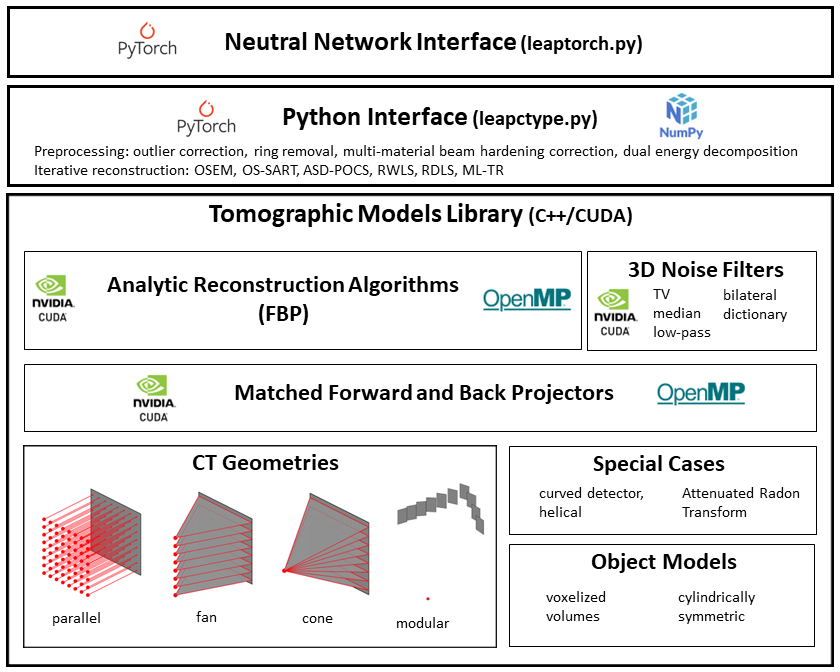
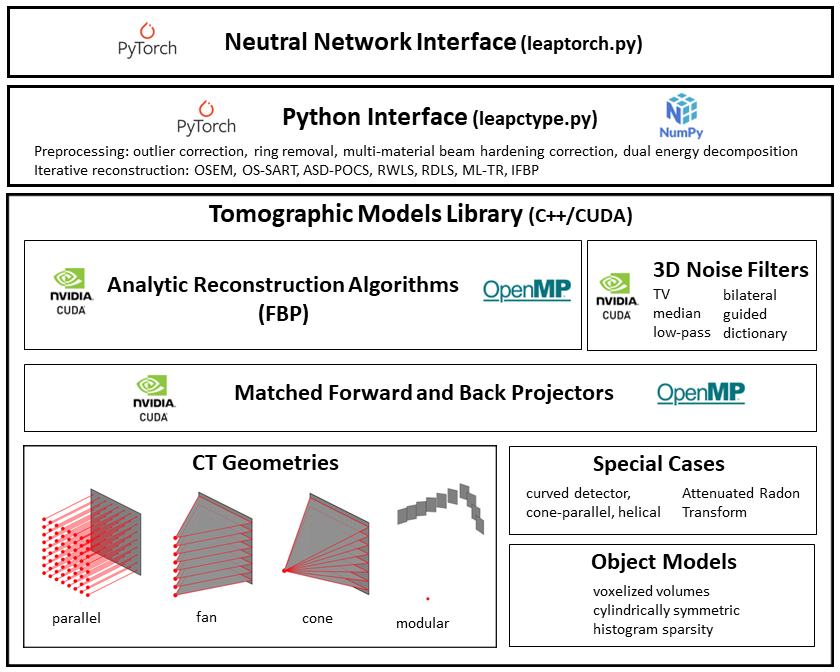
update docs and version number

diff --git a/demo_leapctype/d29_filter_sequence.py b/demo_leapctype/d29_filter_sequence.py
@@ -6,6 +6,11 @@ leapct = tomographicModels()
 This script demonstrates some applications of the so-called "filter sequence" in LEAP.  The filter sequence
 is an extensible feature for which to add multiple regularization filters or "priors" to LEAP iterative reconstruction algorithms.
 
+The types of filters used in this demo script are just to demonstrate the features in LEAP and are not necessarily recommended
+for any application.  In addition, there are many parameter included in these filters and these parameters must be tuned
+to your specific application.  The default values given here might actually result in very poor performance.  Don't judge
+the quality of a specific reconstruction algorithm until you have tuned its parameters for best performance.
+
 This feature has many applications and we will slowly add these to this demon script over time.
 '''
 
@@ -43,11 +48,13 @@ if whichMethod == 1:
     f = leapct.FBP(g)
     
     # Initialize the filter sequence and give it a strength of 2e2.  Larger strengths will enforce a stronger regularization.
+    # You will need to tune this regularization strength to your specific application
     filters = filterSequence(2e2)
     
     # Add a Total Variation (TV) term.  Typical TV uses an L1 norm, but LEAP allows
     # one to use any Lp norm.  Note that if p < 1, then it will be non-convex.  This is really effective in certain
     # situations, but if you are not careful you can get trapped in a non desirable local minimum
+    # The delta parameter must be tuned to your specific application
     filters.append(TV(leapct, delta=0.01/100.0, p=1.0))
     
     leapct.RWLS(g,f,200,filters,preconditioner='SQS')

diff --git a/demo_leapctype/d01_standard_geometries.py b/demo_leapctype/d01_standard_geometries.py
@@ -71,8 +71,8 @@ leapct.print_parameters()
 # Allocate space for the projections and the volume
 # You don't have to use these functions; they are provided just for convenience
 # All you need is for the data to be C contiguous float32 arrays with the right dimensions
-g = leapct.allocateProjections() # shape is numAngles, numRows, numCols
-f = leapct.allocateVolume() # shape is numZ, numY, numX
+g = leapct.allocate_projections() # shape is numAngles, numRows, numCols
+f = leapct.allocate_volume() # shape is numZ, numY, numX
 
 # Specify simplified FORBILD head phantom
 # One could easily do this in Python, but Python is soooooo slow for these types of operations,
@@ -108,8 +108,8 @@ startTime = time.time()
 leapct.FBP(g,f)
 #leapct.inconsistencyReconstruction(g,f)
 #leapct.print_cost = True
-filters = filterSequence(1.0e0)
-filters.append(TV(leapct, delta=0.02/20.0))
+filters = filterSequence(1.0e0) # filter strength argument must be turned to your specific application
+filters.append(TV(leapct, delta=0.02/20.0)) # the delta argument must be turned to your specific application
 #leapct.ASDPOCS(g,f,10,10,1,filters)
 #leapct.SART(g,f,10,10)
 #leapct.OSEM(g,f,10,10)

diff --git a/src/leapctype.py b/src/leapctype.py
@@ -3581,6 +3581,9 @@ class tomographicModels:
         elif isinstance(filters, (int, float)):
             print('Error: invalid inputs!  Note that algorithm syntax has changed, please see documentation.')
             return None
+        elif filters.count() == 0:
+            print('Warning: filterSequence given, but has no terms!')
+            filters.beta = 0.0
         
         if self.verify_inputs(g,f) == False:
             return None
@@ -3974,6 +3977,9 @@ class tomographicModels:
         elif isinstance(filters, (int, float)):
             print('Error: invalid inputs!  Note that algorithm syntax has changed, please see documentation.')
             return None
+        elif filters.count() == 0:
+            print('Warning: filterSequence given, but has no terms!')
+            filters.beta = 0.0
         
         numSubsets = max(1,numSubsets)
         filters.beta = max(0.0, filters.beta/float(numSubsets))

diff --git a/demo_leapctype/d02_standard_geometries_torch.py b/demo_leapctype/d02_standard_geometries_torch.py
@@ -42,6 +42,7 @@ numRows = 1
 #leapct.set_parallelbeam(numAngles, numRows, numCols, pixelSize, pixelSize, 0.5*(numRows-1), 0.5*(numCols-1), leapct.setAngleArray(numAngles, 360.0))
 #leapct.set_fanbeam(numAngles, numRows, numCols, pixelSize, pixelSize, 0.5*(numRows-1), 0.5*(numCols-1), leapct.setAngleArray(numAngles, 360.0), 1100, 1400)
 leapct.set_conebeam(numAngles, numRows, numCols, pixelSize, pixelSize, 0.5*(numRows-1), 0.5*(numCols-1), leapct.setAngleArray(numAngles, 360.0), 1100, 1400)
+#leapct.set_coneparallel(numAngles, numRows, numCols, pixelSize, pixelSize*1100.0/1400.0, 0.5*(numRows-1), 0.5*(numCols-1), leapct.setAngleArray(numAngles, 360.0), 1100, 1400)
 #leapct.set_curvedDetector()
 
 # Set the volume parameters.

diff --git a/demo_leapctype/d03_helical.py b/demo_leapctype/d03_helical.py
@@ -27,7 +27,7 @@ numRows = numCols//4
 
 # Set the scanner geometry
 leapct.set_conebeam(numAngles, numRows, numCols, pixelSize, pixelSize, 0.5*(numRows-1), 0.5*(numCols-1), leapct.setAngleArray(numAngles, 360.0*numTurns), 1100, 1400)
-#leapct.set_coneparallel(numAngles, numRows, numCols, pixelSize, pixelSize*11.0/14.0, 0.5*(numRows-1), 0.5*(numCols-1), leapct.setAngleArray(numAngles, 360.0*numTurns), 1100, 1400)
+#leapct.set_coneparallel(numAngles, numRows, numCols, pixelSize, pixelSize*1100.0/1400.0, 0.5*(numRows-1), 0.5*(numCols-1), leapct.setAngleArray(numAngles, 360.0*numTurns), 1100, 1400)
 #leapct.set_curvedDetector()
 
 # Set the helical pitch.

diff --git a/src/leap_filter_sequence.py b/src/leap_filter_sequence.py
@@ -615,6 +615,9 @@ class filterSequence:
         """
         self.filters = []
         self.beta = beta
+        
+    def count(self):
+        return len(self.filters)
 
     def append(self, newFilter):
         """Append a new filter to the list
@@ -652,6 +655,8 @@ class filterSequence:
         
     def gradient(self, f):
         """Calculates the accumulated gradient of all filters"""
+        #if len(self.filters) == 0:
+        #    return None
         D = self.filters[0].leapct.copyData(f)
         D[:] = 0.0
         if self.beta > 0.0:

diff --git a/src/parameters.cpp b/src/parameters.cpp
@@ -1482,7 +1482,7 @@ bool parameters::anglesAreEquispaced()
 		for (int i = 1; i < numAngles-1; i++)
 		{
 			float curSpacing = phis[i + 1] - phis[i];
-			if (fabs(curSpacing - firstSpacing) > 1.0e-5)
+			if (fabs(curSpacing - firstSpacing) > 2.0e-5)
 			{
 				//printf("dist: %e\n", fabs(curSpacing - firstSpacing));
 				return false;

diff --git a/setup.py b/setup.py
@@ -40,7 +40,7 @@ elif _platform == "darwin":
 
 setup(
     name='leapct',
-    version='1.16', 
+    version='1.17', 
     author='Kyle Champley, Hyojin Kim', 
     author_email='champley@gmail.com, hkim@llnl.gov', 
     description='LivermorE AI Projector for Computed Tomography (LEAPCT)', 

diff --git a/setup_ctype.py b/setup_ctype.py
@@ -40,7 +40,7 @@ elif _platform == "darwin":
 
 setup(
     name='leapct',
-    version='1.16', 
+    version='1.17', 
     author='Kyle Champley, Hyojin Kim', 
     author_email='champley@gmail.com, hkim@llnl.gov', 
     description='LivermorE AI Projector for Computed Tomography (LEAPCT)', 

diff --git a/setup_AMD.py b/setup_AMD.py
@@ -111,7 +111,7 @@ else:
 
 setup(
     name='leapct',
-    version='1.16', 
+    version='1.17', 
     author='Kyle Champley, Hyojin Kim', 
     author_email='champley@gmail.com, hkim@llnl.gov', 
     description='LivermorE AI Projector for Computed Tomography (LEAPCT)', 

diff --git a/src/tomographic_models.h b/src/tomographic_models.h
@@ -13,7 +13,7 @@
 #pragma once
 #endif
 
-#define LEAP_VERSION "1.16"
+#define LEAP_VERSION "1.17"
 
 /*
 #include <iostream>

diff --git a/README.md b/README.md
@@ -51,9 +51,8 @@ For the next releases, we are working on the following:
 2) Feature requests from our users
 3) More noise reduction filters
 4) AMD GPU Support
-5) cone-parallel geometry support
-6) PyQt GUI
-7) beam hardening correction algorithms that account for variable takeoff angle and graded collimator/ bowtie filter
+5) PyQt GUI
+6) beam hardening correction algorithms that account for variable takeoff angle and graded collimator/ bowtie filter
 
 ## Authors
 Kyle Champley (champley@gmail.com)
